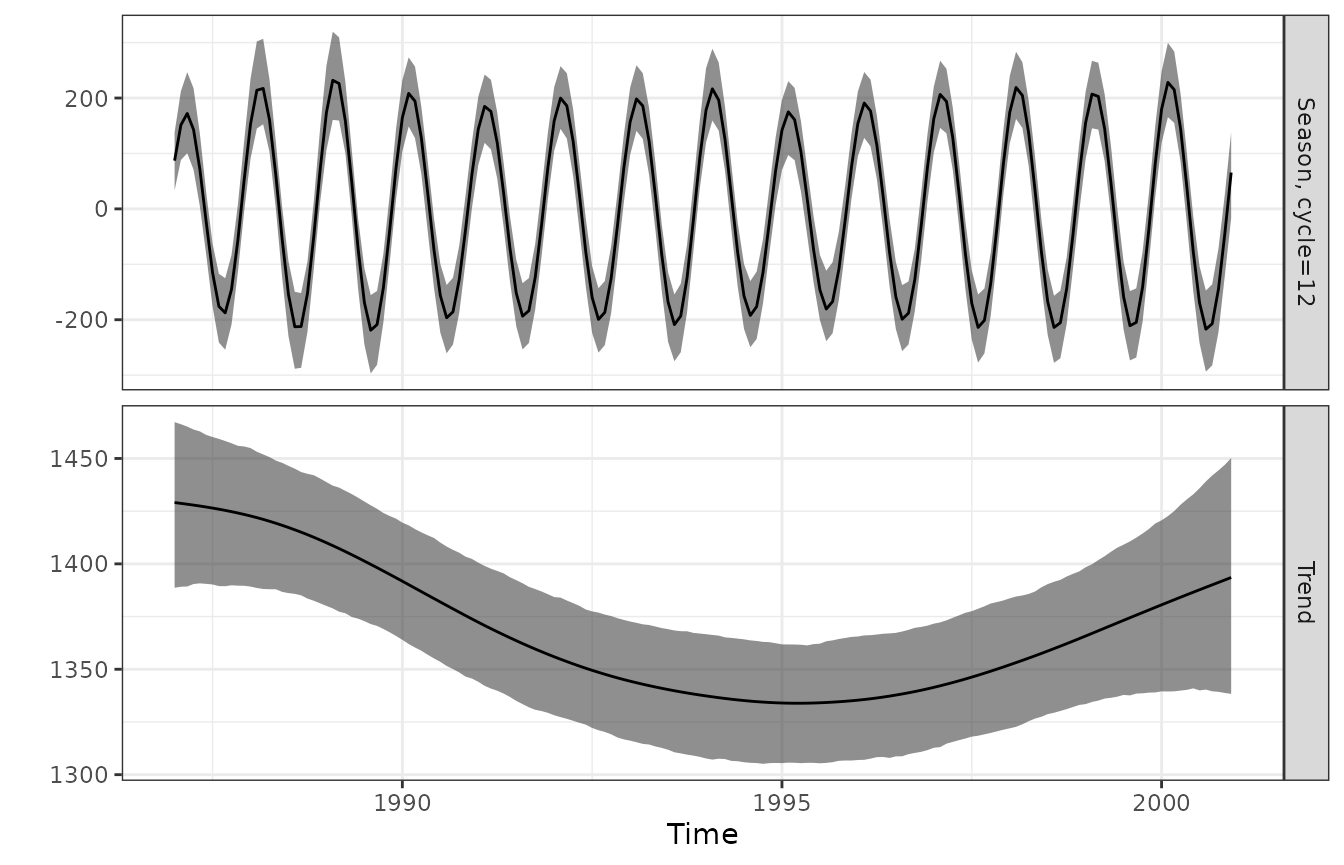
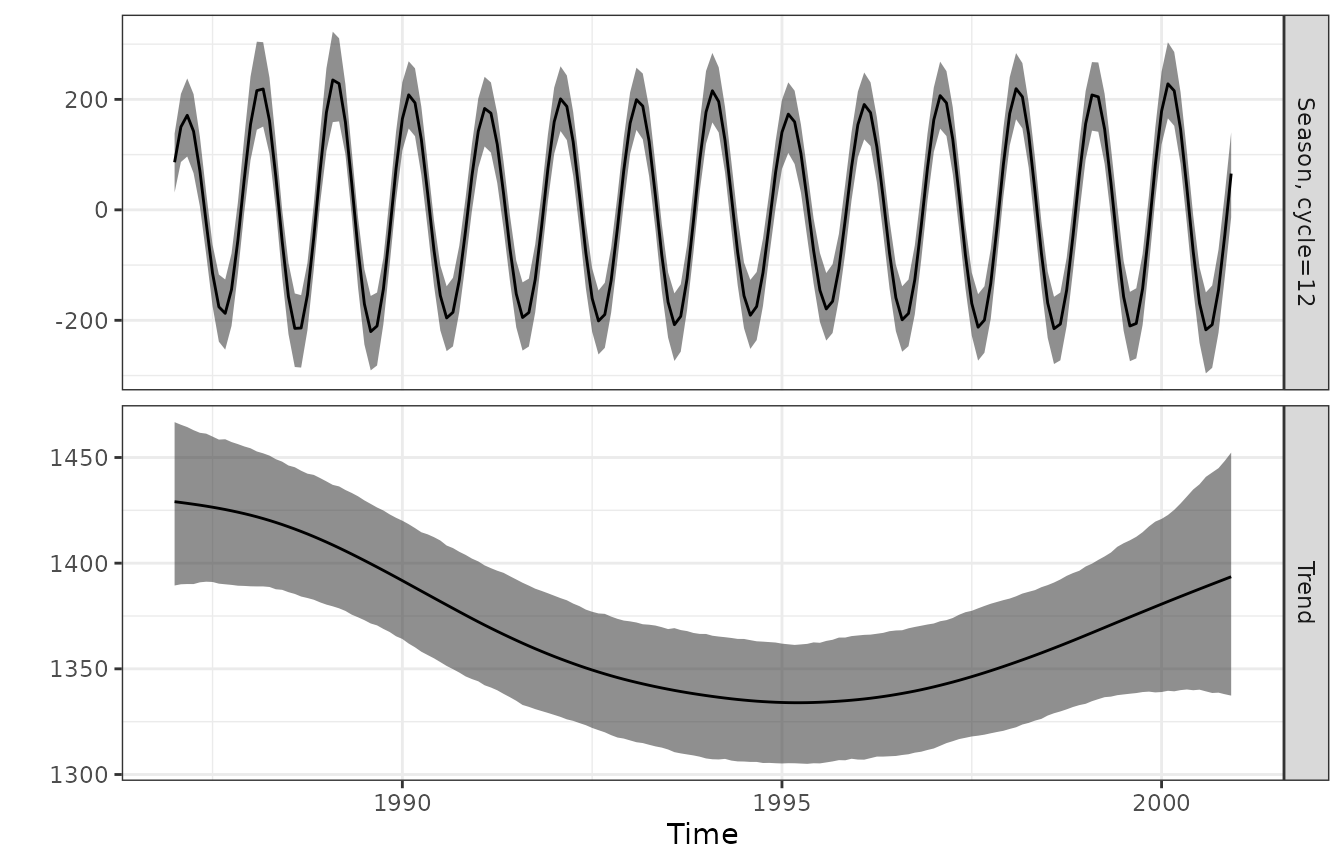
Deploying to gh-pages from @ agbarnett/season@c3b57ee382ab928abd41e35b564e7f967c37ec3e 🚀

diff --git a/articles/month-vignette.html b/articles/month-vignette.html
@@ -1796,23 +1796,23 @@ compare the fit of the two models using the WAIC.</p>
 <span><span class="fu">flextable</span><span class="op">(</span><span class="va">to_table</span><span class="op">)</span> <span class="op">|&gt;</span></span>
 <span>  <span class="fu">colformat_double</span><span class="op">(</span>j <span class="op">=</span> <span class="fl">2</span><span class="op">:</span><span class="fl">3</span>, digits <span class="op">=</span> <span class="fl">1</span><span class="op">)</span></span></code></pre></div>
 <div class="tabwid">
-<style>.cl-02eaff16{}.cl-02e20de8{font-family:'DejaVu Sans';font-size:11pt;font-weight:normal;font-style:normal;text-decoration:none;color:rgba(0, 0, 0, 1.00);background-color:transparent;}.cl-02e6cc8e{margin:0;text-align:left;border-bottom: 0 solid rgba(0, 0, 0, 1.00);border-top: 0 solid rgba(0, 0, 0, 1.00);border-left: 0 solid rgba(0, 0, 0, 1.00);border-right: 0 solid rgba(0, 0, 0, 1.00);padding-bottom:5pt;padding-top:5pt;padding-left:5pt;padding-right:5pt;line-height: 1;background-color:transparent;}.cl-02e6cc98{margin:0;text-align:right;border-bottom: 0 solid rgba(0, 0, 0, 1.00);border-top: 0 solid rgba(0, 0, 0, 1.00);border-left: 0 solid rgba(0, 0, 0, 1.00);border-right: 0 solid rgba(0, 0, 0, 1.00);padding-bottom:5pt;padding-top:5pt;padding-left:5pt;padding-right:5pt;line-height: 1;background-color:transparent;}.cl-02e6f272{width:0.75in;background-color:transparent;vertical-align: middle;border-bottom: 1.5pt solid rgba(102, 102, 102, 1.00);border-top: 1.5pt solid rgba(102, 102, 102, 1.00);border-left: 0 solid rgba(0, 0, 0, 1.00);border-right: 0 solid rgba(0, 0, 0, 1.00);margin-bottom:0;margin-top:0;margin-left:0;margin-right:0;}.cl-02e6f27c{width:0.75in;background-color:transparent;vertical-align: middle;border-bottom: 1.5pt solid rgba(102, 102, 102, 1.00);border-top: 1.5pt solid rgba(102, 102, 102, 1.00);border-left: 0 solid rgba(0, 0, 0, 1.00);border-right: 0 solid rgba(0, 0, 0, 1.00);margin-bottom:0;margin-top:0;margin-left:0;margin-right:0;}.cl-02e6f27d{width:0.75in;background-color:transparent;vertical-align: middle;border-bottom: 0 solid rgba(0, 0, 0, 1.00);border-top: 0 solid rgba(0, 0, 0, 1.00);border-left: 0 solid rgba(0, 0, 0, 1.00);border-right: 0 solid rgba(0, 0, 0, 1.00);margin-bottom:0;margin-top:0;margin-left:0;margin-right:0;}.cl-02e6f286{width:0.75in;background-color:transparent;vertical-align: middle;border-bottom: 0 solid rgba(0, 0, 0, 1.00);border-top: 0 solid rgba(0, 0, 0, 1.00);border-left: 0 solid rgba(0, 0, 0, 1.00);border-right: 0 solid rgba(0, 0, 0, 1.00);margin-bottom:0;margin-top:0;margin-left:0;margin-right:0;}.cl-02e6f287{width:0.75in;background-color:transparent;vertical-align: middle;border-bottom: 1.5pt solid rgba(102, 102, 102, 1.00);border-top: 0 solid rgba(0, 0, 0, 1.00);border-left: 0 solid rgba(0, 0, 0, 1.00);border-right: 0 solid rgba(0, 0, 0, 1.00);margin-bottom:0;margin-top:0;margin-left:0;margin-right:0;}.cl-02e6f290{width:0.75in;background-color:transparent;vertical-align: middle;border-bottom: 1.5pt solid rgba(102, 102, 102, 1.00);border-top: 0 solid rgba(0, 0, 0, 1.00);border-left: 0 solid rgba(0, 0, 0, 1.00);border-right: 0 solid rgba(0, 0, 0, 1.00);margin-bottom:0;margin-top:0;margin-left:0;margin-right:0;}</style>
-<table data-quarto-disable-processing="true" class="table cl-02eaff16">
+<style>.cl-171b83e6{}.cl-17130022{font-family:'DejaVu Sans';font-size:11pt;font-weight:normal;font-style:normal;text-decoration:none;color:rgba(0, 0, 0, 1.00);background-color:transparent;}.cl-17178f7a{margin:0;text-align:left;border-bottom: 0 solid rgba(0, 0, 0, 1.00);border-top: 0 solid rgba(0, 0, 0, 1.00);border-left: 0 solid rgba(0, 0, 0, 1.00);border-right: 0 solid rgba(0, 0, 0, 1.00);padding-bottom:5pt;padding-top:5pt;padding-left:5pt;padding-right:5pt;line-height: 1;background-color:transparent;}.cl-17178f84{margin:0;text-align:right;border-bottom: 0 solid rgba(0, 0, 0, 1.00);border-top: 0 solid rgba(0, 0, 0, 1.00);border-left: 0 solid rgba(0, 0, 0, 1.00);border-right: 0 solid rgba(0, 0, 0, 1.00);padding-bottom:5pt;padding-top:5pt;padding-left:5pt;padding-right:5pt;line-height: 1;background-color:transparent;}.cl-1717b6f8{width:0.75in;background-color:transparent;vertical-align: middle;border-bottom: 1.5pt solid rgba(102, 102, 102, 1.00);border-top: 1.5pt solid rgba(102, 102, 102, 1.00);border-left: 0 solid rgba(0, 0, 0, 1.00);border-right: 0 solid rgba(0, 0, 0, 1.00);margin-bottom:0;margin-top:0;margin-left:0;margin-right:0;}.cl-1717b70c{width:0.75in;background-color:transparent;vertical-align: middle;border-bottom: 1.5pt solid rgba(102, 102, 102, 1.00);border-top: 1.5pt solid rgba(102, 102, 102, 1.00);border-left: 0 solid rgba(0, 0, 0, 1.00);border-right: 0 solid rgba(0, 0, 0, 1.00);margin-bottom:0;margin-top:0;margin-left:0;margin-right:0;}.cl-1717b70d{width:0.75in;background-color:transparent;vertical-align: middle;border-bottom: 0 solid rgba(0, 0, 0, 1.00);border-top: 0 solid rgba(0, 0, 0, 1.00);border-left: 0 solid rgba(0, 0, 0, 1.00);border-right: 0 solid rgba(0, 0, 0, 1.00);margin-bottom:0;margin-top:0;margin-left:0;margin-right:0;}.cl-1717b716{width:0.75in;background-color:transparent;vertical-align: middle;border-bottom: 0 solid rgba(0, 0, 0, 1.00);border-top: 0 solid rgba(0, 0, 0, 1.00);border-left: 0 solid rgba(0, 0, 0, 1.00);border-right: 0 solid rgba(0, 0, 0, 1.00);margin-bottom:0;margin-top:0;margin-left:0;margin-right:0;}.cl-1717b717{width:0.75in;background-color:transparent;vertical-align: middle;border-bottom: 1.5pt solid rgba(102, 102, 102, 1.00);border-top: 0 solid rgba(0, 0, 0, 1.00);border-left: 0 solid rgba(0, 0, 0, 1.00);border-right: 0 solid rgba(0, 0, 0, 1.00);margin-bottom:0;margin-top:0;margin-left:0;margin-right:0;}.cl-1717b718{width:0.75in;background-color:transparent;vertical-align: middle;border-bottom: 1.5pt solid rgba(102, 102, 102, 1.00);border-top: 0 solid rgba(0, 0, 0, 1.00);border-left: 0 solid rgba(0, 0, 0, 1.00);border-right: 0 solid rgba(0, 0, 0, 1.00);margin-bottom:0;margin-top:0;margin-left:0;margin-right:0;}</style>
+<table data-quarto-disable-processing="true" class="table cl-171b83e6">
 <thead><tr style="overflow-wrap:break-word;">
-<th class="cl-02e6f272"><p class="cl-02e6cc8e"><span class="cl-02e20de8">model</span></p></th>
-<th class="cl-02e6f27c"><p class="cl-02e6cc98"><span class="cl-02e20de8">parameters</span></p></th>
-<th class="cl-02e6f27c"><p class="cl-02e6cc98"><span class="cl-02e20de8">WAIC</span></p></th>
+<th class="cl-1717b6f8"><p class="cl-17178f7a"><span class="cl-17130022">model</span></p></th>
+<th class="cl-1717b70c"><p class="cl-17178f84"><span class="cl-17130022">parameters</span></p></th>
+<th class="cl-1717b70c"><p class="cl-17178f84"><span class="cl-17130022">WAIC</span></p></th>
 </tr></thead>
 <tbody>
 <tr style="overflow-wrap:break-word;">
-<td class="cl-02e6f27d"><p class="cl-02e6cc8e"><span class="cl-02e20de8">Random</span></p></td>
-<td class="cl-02e6f286"><p class="cl-02e6cc98"><span class="cl-02e20de8"></span></p></td>
-<td class="cl-02e6f286"><p class="cl-02e6cc98"><span class="cl-02e20de8"></span></p></td>
+<td class="cl-1717b70d"><p class="cl-17178f7a"><span class="cl-17130022">Random</span></p></td>
+<td class="cl-1717b716"><p class="cl-17178f84"><span class="cl-17130022"></span></p></td>
+<td class="cl-1717b716"><p class="cl-17178f84"><span class="cl-17130022"></span></p></td>
 </tr>
 <tr style="overflow-wrap:break-word;">
-<td class="cl-02e6f287"><p class="cl-02e6cc8e"><span class="cl-02e20de8">Neighbours</span></p></td>
-<td class="cl-02e6f290"><p class="cl-02e6cc98"><span class="cl-02e20de8"></span></p></td>
-<td class="cl-02e6f290"><p class="cl-02e6cc98"><span class="cl-02e20de8"></span></p></td>
+<td class="cl-1717b717"><p class="cl-17178f7a"><span class="cl-17130022">Neighbours</span></p></td>
+<td class="cl-1717b718"><p class="cl-17178f84"><span class="cl-17130022"></span></p></td>
+<td class="cl-1717b718"><p class="cl-17178f84"><span class="cl-17130022"></span></p></td>
 </tr>
 </tbody>
 </table>

diff --git a/articles/season-vignette.html b/articles/season-vignette.html
@@ -777,14 +777,14 @@ Monte Carlo samples to estimate the model parameters.</p>
 <span><span class="co">#&gt; Number of MCMC samples = 1501</span></span>
 <span><span class="co">#&gt; </span></span>
 <span><span class="co">#&gt; Standard deviations</span></span>
-<span><span class="co">#&gt; Residual, mean=113.402, 95% CI [100.492, 127.221]</span></span>
+<span><span class="co">#&gt; Residual, mean=113.222, 95% CI [100.011, 127.35]</span></span>
 <span><span class="co">#&gt; Cycle=12</span></span>
-<span><span class="co">#&gt; Season, mean=0.157644, 95% CI [0.0446635, 0.319579]</span></span>
+<span><span class="co">#&gt; Season, mean=0.16226, 95% CI [0.0431868, 0.328013]</span></span>
 <span><span class="co">#&gt; </span></span>
 <span><span class="co">#&gt; Phase and amplitude</span></span>
 <span><span class="co">#&gt; Cycle=12</span></span>
-<span><span class="co">#&gt; Amplitude, mean=205.995, 95% CI [180.267, 233.145]</span></span>
-<span><span class="co">#&gt; Phase (radians), mean=0.69756, 95% CI [0.579905, 0.829052]</span></span>
+<span><span class="co">#&gt; Amplitude, mean=206.162, 95% CI [181.312, 232.455]</span></span>
+<span><span class="co">#&gt; Phase (radians), mean=0.698927, 95% CI [0.582044, 0.819806]</span></span>
 <span><span class="fu"><a href="https://rdrr.io/r/graphics/plot.default.html" class="external-link">plot</a></span><span class="op">(</span><span class="va">ns.season</span><span class="op">)</span></span></code></pre></div>
 <p><img src="season-vignette_files/figure-html/ncosinor-1.png" class="r-plt" alt="" width="672"></p>
 <p>The estimated mean amplitude is 207, so on average there 207 extra
@@ -849,16 +849,16 @@ months.</p>
 <span><span class="co">#&gt; Largest positive difference at lags:</span></span>
 <span><span class="co">#&gt; 4 4 </span></span>
 <span><span class="co">#&gt; Size of largest largest difference:</span></span>
-<span><span class="co">#&gt; 402602.8 </span></span>
+<span><span class="co">#&gt; 383557.2 </span></span>
 <span><span class="co">#&gt; Largest negative difference at lags:</span></span>
 <span><span class="co">#&gt; 0 2 </span></span>
 <span><span class="co">#&gt; Size of largest negative difference:</span></span>
-<span><span class="co">#&gt; -689838.6 </span></span>
+<span><span class="co">#&gt; -678481.3 </span></span>
 <span><span class="co">#&gt; </span></span>
 <span><span class="co">#&gt; Bootstrap test of non-linearity using the third-order moment</span></span>
 <span><span class="co">#&gt; Statistics for areas outside test limits:</span></span>
 <span><span class="co">#&gt; observed     obs/SD     median-null    95%-null    p-value</span></span>
-<span><span class="co">#&gt; 2961568 7.056636 283627.3 1253176 0</span></span></code></pre></div>
+<span><span class="co">#&gt; 2823883 6.827263 287239 1214638 0</span></span></code></pre></div>
 <p>There is evidence of remaining non-linearity in the residuals at lags
 of 2 to 4 months.</p>
 <div class="sourceCode" id="cb13"><pre class="downlit sourceCode r">

diff --git a/index.html b/index.html
@@ -285,7 +285,7 @@
 <span><span class="co">#&gt; # ℹ 75 more rows</span></span>
 <span><span class="fu"><a href="https://ggplot2.tidyverse.org/reference/autoplot.html" class="external-link">autoplot</a></span><span class="op">(</span><span class="va">p</span><span class="op">)</span></span></code></pre></div>
 <p><img src="reference/figures/README-peri-demo-1.png" alt="" width="100%"></p>
-<p>For full details see the <a href="">season website</a>.</p>
+<p>For full details see the <a href="https://agbarnett.github.io/season/index.html" class="external-link">season website</a>.</p>
 </div>
 </div>
 

diff --git a/articles/season-vignette.md b/articles/season-vignette.md
@@ -737,14 +737,14 @@ summary(ns.season)
 #> Number of MCMC samples = 1501
 #> 
 #> Standard deviations
-#> Residual, mean=113.402, 95% CI [100.492, 127.221]
+#> Residual, mean=113.222, 95% CI [100.011, 127.35]
 #> Cycle=12
-#> Season, mean=0.157644, 95% CI [0.0446635, 0.319579]
+#> Season, mean=0.16226, 95% CI [0.0431868, 0.328013]
 #> 
 #> Phase and amplitude
 #> Cycle=12
-#> Amplitude, mean=205.995, 95% CI [180.267, 233.145]
-#> Phase (radians), mean=0.69756, 95% CI [0.579905, 0.829052]
+#> Amplitude, mean=206.162, 95% CI [181.312, 232.455]
+#> Phase (radians), mean=0.698927, 95% CI [0.582044, 0.819806]
 plot(ns.season)
 ```
 
@@ -814,16 +814,16 @@ ntest.residuals
 #> Largest positive difference at lags:
 #> 4 4 
 #> Size of largest largest difference:
-#> 402602.8 
+#> 383557.2 
 #> Largest negative difference at lags:
 #> 0 2 
 #> Size of largest negative difference:
-#> -689838.6 
+#> -678481.3 
 #> 
 #> Bootstrap test of non-linearity using the third-order moment
 #> Statistics for areas outside test limits:
 #> observed     obs/SD     median-null    95%-null    p-value
-#> 2961568 7.056636 283627.3 1253176 0
+#> 2823883 6.827263 287239 1214638 0
 ```
 
 There is evidence of remaining non-linearity in the residuals at lags of

diff --git a/index.md b/index.md
@@ -244,4 +244,5 @@ autoplot(p)
 
 ![](reference/figures/README-peri-demo-1.png)
 
-For full details see the [season website]().
+For full details see the [season
+website](https://agbarnett.github.io/season/index.html).